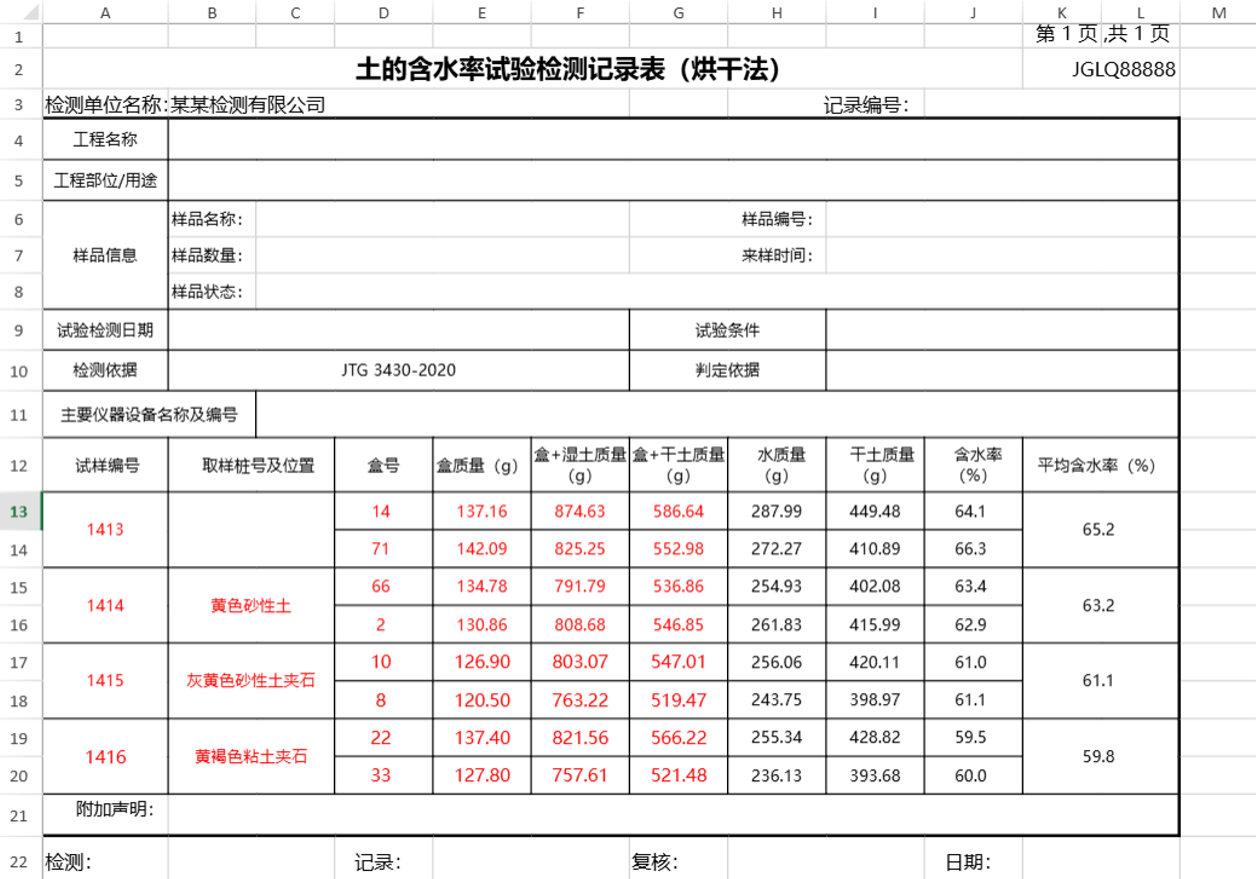
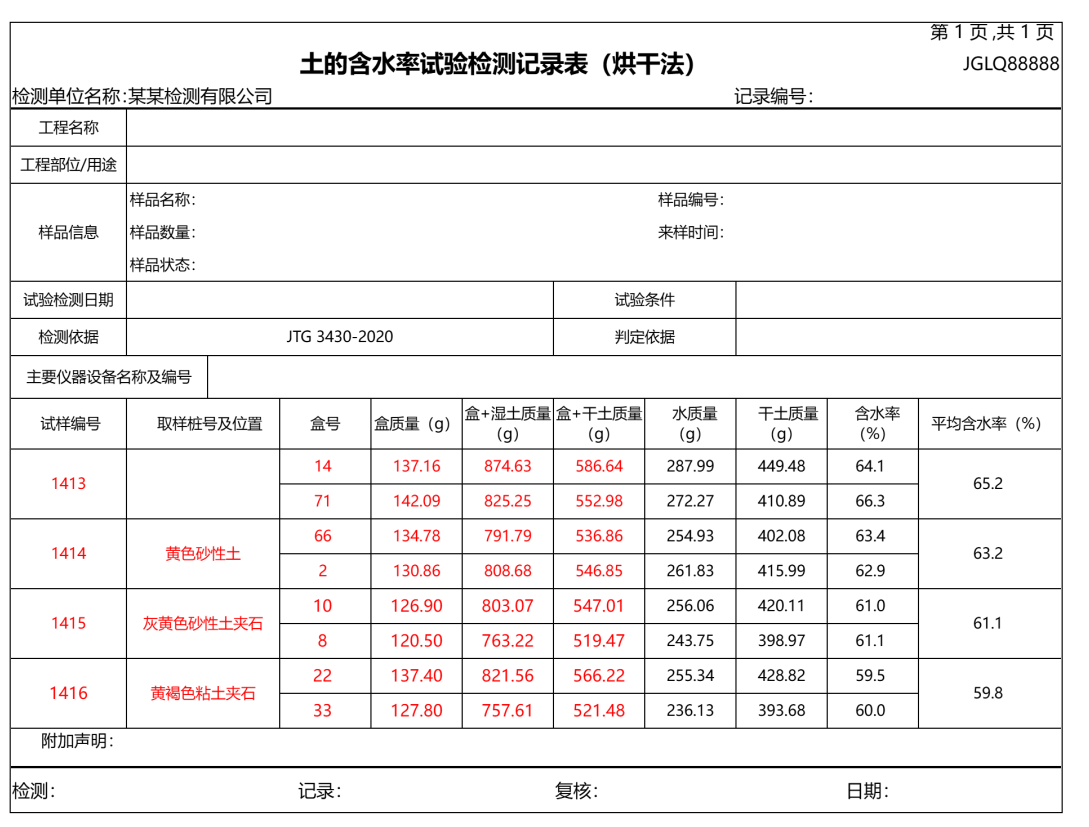
feat: refine new-chat actions and add a fix-formula starter
- Split New chat into a primary button and a menu with New chat, Clear spreadsheet and New chat + clear spreadsheet.
- Keep clear confirmation and snapshot semantics; the combined action resets the workbook and starts a fresh chat while old chats keep their last completed snapshot.
- Add a medium-complexity starter that attaches 销售分析看板.sjs and asks the agent to fix formula errors in the 统计分析 sheet.
- Remove the workbook-structure starter, set the sales starter to simple, and refresh the sample detection image.

diff --git a/components/ChatPanel.tsx b/components/ChatPanel.tsx
@@ -301,6 +301,7 @@ export default function ChatPanel({ chatPanelWidth, onChatPanelWidthChange }: Ch
 	const [historyRefresh, setHistoryRefresh] = useState(0);
 	const [pendingAction, setPendingAction] = useState<{ message: string; action: () => void } | null>(null);
 	const [showClearConfirm, setShowClearConfirm] = useState(false);
+	const [showNewClearConfirm, setShowNewClearConfirm] = useState(false);
 
 	// MCP
 	const {
@@ -980,8 +981,29 @@ export default function ChatPanel({ chatPanelWidth, onChatPanelWidthChange }: Ch
 	}, [session.id, handleStop, switchSession, setMessages, clearError, clearAttachments, t, getLatestSnapshotId, workbook]);
 
 	const handleEmptySend = useCallback((text: string, files?: FileUIPart[]) => {
-		sendMessageWithSnapshotRef.current({ text, files });
-	}, []);
+		const imageFiles: FileUIPart[] = [];
+		const spreadsheetFiles: FileUIPart[] = [];
+		for (const part of files ?? []) {
+			if (part.type === "file" && part.mediaType?.startsWith("image/")) imageFiles.push(part);
+			else spreadsheetFiles.push(part);
+		}
+
+		let finalText = text;
+		for (const part of spreadsheetFiles) {
+			if (!part.filename) continue;
+			const base64 = part.url.split(",")[1];
+			if (!base64) continue;
+			// import_file 通过文件名从 pendingFilesRef 取 base64
+			pendingFilesRef.current.set(part.filename, base64);
+			finalText = `${t("chat.marker.attachment", { name: part.filename })}
+${finalText}`;
+		}
+
+		sendMessageWithSnapshotRef.current({
+			text: finalText,
+			files: imageFiles.length > 0 ? imageFiles : undefined,
+		});
+	}, [t, pendingFilesRef]);
 
 	const handleFork = useCallback(async (messageId: string, withRestore: boolean) => {
 		const doFork = async () => {
@@ -1034,9 +1056,9 @@ export default function ChatPanel({ chatPanelWidth, onChatPanelWidthChange }: Ch
 		setAutoSaveExists(false);
 	}, []);
 
-	/** 清空当前工作簿：重置表格，并同步最新的会话快照与自动保存 */
-	const handleClearWorkbook = useCallback(async () => {
-		if (!workbook || isGeneratingRef.current) return;
+	/** 重置工作簿并同步自动保存；不读写会话快照。返回是否成功。 */
+	const resetWorkbookOnly = useCallback(async (): Promise<boolean> => {
+		if (!workbook || isGeneratingRef.current) return false;
 
 		// 取消尚未落盘的本轮快照，避免它在清空之后又把旧内容写成 latest
 		if (snapshotTimerRef.current) {
@@ -1052,9 +1074,22 @@ export default function ChatPanel({ chatPanelWidth, onChatPanelWidthChange }: Ch
 			resetWorkbook(workbook);
 			refreshSheetInfo();
 		} catch (error) {
-			console.error("[clearWorkbook] 重置工作簿失败", error);
-			return;
+			console.error("[resetWorkbookOnly] 重置工作簿失败", error);
+			return false;
 		}
+
+		if (settings.autoSave) {
+			saveWorkbook(workbook).then(() => setAutoSaveExists(true)).catch(() => {});
+		} else {
+			// 不开自动保存时也删除旧数据，避免以后打开开关又恢复出清空前的表
+			clearWorkbook().then(() => setAutoSaveExists(false)).catch(() => {});
+		}
+		return true;
+	}, [workbook, settings.autoSave, refreshSheetInfo]);
+
+	/** 清空当前工作簿：重置表格，并同步最新的会话快照与自动保存 */
+	const handleClearWorkbook = useCallback(async () => {
+		if (!workbook || !(await resetWorkbookOnly())) return;
 
 		if (messages.length > 0) {
 			const snapshotId = `snap_${session.id}_${Date.now()}`;
@@ -1067,17 +1102,18 @@ export default function ChatPanel({ chatPanelWidth, onChatPanelWidthChange }: Ch
 			}
 		}
 
-		if (settings.autoSave) {
-			saveWorkbook(workbook).then(() => setAutoSaveExists(true)).catch(() => {});
-		} else {
-			// 不开自动保存时也删除旧数据，避免以后打开开关又恢复出清空前的表
-			clearWorkbook().then(() => setAutoSaveExists(false)).catch(() => {});
-		}
-
 		setShowClearConfirm(false);
 		setShowHistory(false);
 		setShowSettings(false);
-	}, [workbook, messages.length, session.id, flushMessages, setLatestSnapshot, settings.autoSave, refreshSheetInfo]);
+	}, [resetWorkbookOnly, messages.length, session.id, workbook, flushMessages, setLatestSnapshot]);
+
+	/** 新建聊天并清空表格：旧会话保留最后一次完成轮次的快照 */
+	const handleNewSessionAndClearWorkbook = useCallback(async () => {
+		if (!workbook || !isReady || isGeneratingRef.current) return;
+		if (!(await resetWorkbookOnly())) return;
+		doNewSession();
+		setShowNewClearConfirm(false);
+	}, [workbook, isReady, resetWorkbookOnly, doNewSession]);
 
 
 	// 导出指定会话
@@ -1174,16 +1210,52 @@ export default function ChatPanel({ chatPanelWidth, onChatPanelWidthChange }: Ch
 						<span className="truncate">{headerStatus.text}</span>
 					</span>
 				</div>
-				{/* 右上角按钮组：新建 | 历史 | 清空表格 | 设置 */}
+				{/* 右上角按钮组：新建 / 清空（合并菜单）| 历史 | 设置 */}
 				<div className="flex items-center gap-1 flex-shrink-0">
-					<button
-						type="button"
-						onClick={handleNewSession}
-						className="inline-flex size-7 items-center justify-center rounded-md text-muted-foreground transition-colors hover:bg-accent hover:text-foreground"
-						title={t("chat.new")}
-					>
-						<PlusIcon className="size-4" />
-					</button>
+					<div className="flex items-center">
+						<button
+							type="button"
+							onClick={handleNewSession}
+							className="inline-flex size-7 items-center justify-center rounded-l-md rounded-r-none text-muted-foreground transition-colors hover:bg-accent hover:text-foreground"
+							title={t("chat.new")}
+						>
+							<PlusIcon className="size-4" />
+						</button>
+						<DropdownMenu>
+							<DropdownMenuTrigger asChild>
+								<button
+									type="button"
+									aria-label={t("chat.newMenu")}
+									title={t("chat.newMenu")}
+									className="inline-flex h-7 w-5 items-center justify-center rounded-l-none rounded-r-md text-muted-foreground transition-colors hover:bg-accent hover:text-foreground"
+								>
+									<ChevronDownIcon className="size-3" />
+								</button>
+							</DropdownMenuTrigger>
+							<DropdownMenuContent align="end" sideOffset={4} className="w-60">
+								<DropdownMenuItem onClick={handleNewSession}>
+									<PlusIcon className="size-4" />
+									<span>{t("chat.new")}</span>
+								</DropdownMenuItem>
+								<DropdownMenuItem
+									onClick={() => setShowClearConfirm(true)}
+									disabled={!isReady || isGenerating}
+									variant="destructive"
+								>
+									<EraserIcon className="size-4" />
+									<span>{t("chat.clearWorkbook")}</span>
+								</DropdownMenuItem>
+								<DropdownMenuItem
+									onClick={() => setShowNewClearConfirm(true)}
+									disabled={!isReady || isGenerating}
+									variant="destructive"
+								>
+									<EraserIcon className="size-4" />
+									<span>{t("chat.newClearWorkbook")}</span>
+								</DropdownMenuItem>
+							</DropdownMenuContent>
+						</DropdownMenu>
+					</div>
 					<button
 						type="button"
 						onClick={() => { setShowHistory((v) => !v); setShowSettings(false); }}
@@ -1193,17 +1265,6 @@ export default function ChatPanel({ chatPanelWidth, onChatPanelWidthChange }: Ch
 						title={t("chat.history")}
 					>
 						<HistoryIcon className="size-4" />
-					</button>
-					<button
-						type="button"
-						onClick={() => { if (!isReady || isGenerating) return; setShowClearConfirm(true); }}
-						aria-disabled={!isReady || isGenerating}
-						className={`inline-flex size-7 items-center justify-center rounded-md text-muted-foreground transition-colors hover:bg-accent hover:text-foreground ${
-							!isReady || isGenerating ? "opacity-40 cursor-not-allowed hover:bg-transparent hover:text-muted-foreground" : ""
-						}`}
-						title={t("chat.clearWorkbook")}
-					>
-						<EraserIcon className="size-4" />
 					</button>
 					<button
 						type="button"
@@ -1556,6 +1617,20 @@ export default function ChatPanel({ chatPanelWidth, onChatPanelWidthChange }: Ch
 					<DialogFooter>
 						<Button variant="outline" onClick={() => setShowClearConfirm(false)}>{t("common.cancel")}</Button>
 						<Button variant="destructive" onClick={() => { void handleClearWorkbook(); }}>{t("chat.clearWorkbook.confirm")}</Button>
+					</DialogFooter>
+				</DialogContent>
+			</Dialog>
+
+			{/* 新建聊天并清空表格确认 */}
+			<Dialog open={showNewClearConfirm} onOpenChange={setShowNewClearConfirm}>
+				<DialogContent showCloseButton={false} className="max-w-sm">
+					<DialogHeader>
+						<DialogTitle>{t("chat.newClearWorkbook.title")}</DialogTitle>
+						<DialogDescription>{t("chat.newClearWorkbook.description")}</DialogDescription>
+					</DialogHeader>
+					<DialogFooter>
+						<Button variant="outline" onClick={() => setShowNewClearConfirm(false)}>{t("common.cancel")}</Button>
+						<Button variant="destructive" onClick={() => { void handleNewSessionAndClearWorkbook(); }}>{t("chat.newClearWorkbook")}</Button>
 					</DialogFooter>
 				</DialogContent>
 			</Dialog>

diff --git a/components/ai-elements/empty-state.tsx b/components/ai-elements/empty-state.tsx
@@ -6,10 +6,10 @@ import {
 	WandSparklesIcon,
 	FileUpIcon,
 	DatabaseIcon,
-	SearchIcon,
 	CalendarDaysIcon,
 	WalletIcon,
 	ImageUpIcon,
+	WrenchIcon,
 	type LucideIcon,
 } from "lucide-react";
 import { useMemo, useState } from "react";
@@ -38,11 +38,13 @@ interface StarterPrompt {
 	level: PromptLevel;
 	/** 随提示词附带的一张示例图片（public 下的路径） */
 	image?: { src: string; filename: string; mediaType: string };
+	/** 随提示词附带的一个示例文件（public 下的路径） */
+	file?: { src: string; filename: string; mediaType: string };
 }
 
-/** 把 public 下的图片读成 AI SDK 的 FileUIPart（data URL） */
-async function loadImagePart(image: NonNullable<StarterPrompt["image"]>): Promise<FileUIPart> {
-	const response = await fetch(image.src);
+/** 把 public 下的示例附件读成 AI SDK 的 FileUIPart（data URL） */
+async function loadFilePart(file: { src: string; filename: string; mediaType: string }): Promise<FileUIPart> {
+	const response = await fetch(file.src);
 	if (!response.ok) throw new Error(`HTTP ${response.status}`);
 	const blob = await response.blob();
 	const url = await new Promise<string>((resolve, reject) => {
@@ -51,12 +53,12 @@ async function loadImagePart(image: NonNullable<StarterPrompt["image"]>): Promis
 		reader.onerror = () => reject(reader.error ?? new Error("读取图片失败"));
 		reader.readAsDataURL(blob);
 	});
-	return { type: "file", mediaType: image.mediaType, filename: image.filename, url };
+	return { type: "file", mediaType: file.mediaType, filename: file.filename, url };
 }
 
 export function EmptyState({ onSend, isReady }: EmptyStateProps) {
 	const { t } = useTranslation();
-	const [loadingImage, setLoadingImage] = useState(false);
+	const [loadingAttachment, setLoadingAttachment] = useState(false);
 	const capabilities = useMemo(
 		() => [
 			{ icon: TableIcon, label: t("empty.capability.data") },
@@ -71,16 +73,21 @@ export function EmptyState({ onSend, isReady }: EmptyStateProps) {
 			// 五条都从零可用：不假设表里已经有数据，空工作簿也能直接跑。
 			// 按档位从轻到重排列，右端标出档位供用户挑任务时参考。
 			{
-				icon: SearchIcon,
-				label: t("empty.prompt.structure"),
-				prompt: t("empty.prompt.structure.full"),
-				level: "simple",
-			},
-			{
 				icon: DatabaseIcon,
 				label: t("empty.prompt.sample"),
 				prompt: t("empty.prompt.sample.full"),
+				level: "simple",
+			},
+			{
+				icon: WrenchIcon,
+				label: t("empty.prompt.fixFormula"),
+				prompt: t("empty.prompt.fixFormula.full"),
 				level: "medium",
+				file: {
+					src: "/starter/销售分析看板.sjs",
+					filename: "销售分析看板.sjs",
+					mediaType: "application/octet-stream",
+				},
 			},
 			{
 				icon: CalendarDaysIcon,
@@ -110,18 +117,19 @@ export function EmptyState({ onSend, isReady }: EmptyStateProps) {
 	);
 
 	const sendStarter = async (item: StarterPrompt) => {
-		if (!item.image) {
+		const attachment = item.image ?? item.file;
+		if (!attachment) {
 			onSend(item.prompt);
 			return;
 		}
-		if (loadingImage) return;
-		setLoadingImage(true);
+		if (loadingAttachment) return;
+		setLoadingAttachment(true);
 		try {
-			onSend(item.prompt, [await loadImagePart(item.image)]);
+			onSend(item.prompt, [await loadFilePart(attachment)]);
 		} catch (error) {
-			console.error("[empty-state] 示例图片加载失败", error);
+			console.error("[empty-state] 示例附件加载失败", error);
 		} finally {
-			setLoadingImage(false);
+			setLoadingAttachment(false);
 		}
 	};
 
@@ -152,8 +160,9 @@ export function EmptyState({ onSend, isReady }: EmptyStateProps) {
 			<div className="flex w-full flex-col gap-2">
 				{starterPrompts.map((item) => {
 					const { icon: Icon, label, level } = item;
-					// 带图的那条要先 fetch 图片，加载期间禁用它，避免连点
-					const loading = !!item.image && loadingImage;
+					const attachment = item.image ?? item.file;
+					// 带附件的那条要先 fetch 文件，加载期间禁用它，避免连点
+					const loading = !!attachment && loadingAttachment;
 					return (
 						<button
 							key={label}

diff --git a/lib/i18n/locales/zh-CN.ts b/lib/i18n/locales/zh-CN.ts
@@ -47,6 +47,10 @@ export const zhCNMessages: Record<TranslationKey, string> = {
 	"chat.clearWorkbook.title": "清空当前表格？",
 	"chat.clearWorkbook.description": "将删除当前工作簿的全部内容、格式、图表和工作表，恢复为一张空白 Sheet1。聊天记录和工作簿快照不会被删除。",
 	"chat.clearWorkbook.confirm": "清空表格",
+	"chat.newMenu": "新建或清空",
+	"chat.newClearWorkbook": "新建聊天并清空表格",
+	"chat.newClearWorkbook.title": "新建聊天并清空表格？",
+	"chat.newClearWorkbook.description": "将开始一个新聊天，并将当前工作簿重置为一张空白 Sheet1。当前聊天会保留在历史中，并保留最后一次完成轮次时的快照。",
 	"chat.interrupt.title": "中断当前回复",
 	"chat.duplicateSession": "复制会话到这条消息",
 	"chat.duplicateSessionRestore": "复制会话并恢复 SpreadJS",
@@ -138,12 +142,12 @@ export const zhCNMessages: Record<TranslationKey, string> = {
 	"empty.prompt.budget.full": "帮我做一个部门年度预算表，一个工作簿里分“预算录入”和“汇总看板”两个 sheet。预算录入包含部门、科目、月份、预算金额、实际金额、差异额、差异率，差异额和差异率用公式计算；汇总看板按部门汇总预算、实际和差异，差异率超过 10% 的行标红。示例数据给 3 个部门、每个部门 3 个科目、12 个月即可，字段和公式要能直接使用。",
 	"empty.prompt.image": "还原图片表格",
 	"empty.prompt.image.full": "帮我还原这个表格",
+	"empty.prompt.fixFormula": "修复公式错误",
+	"empty.prompt.fixFormula.full": "导入这个文件，并修复“统计分析”工作表中的公式错误。",
 	"empty.prompt.sample": "生成销售数据",
 	"empty.prompt.sample.full": "在当前工作表中生成一份示例销售数据，并简单设置一些格式。",
 	"empty.prompt.schedule": "搭建排期表",
 	"empty.prompt.schedule.full": "帮我新建一个项目排期表，用来管一个 3 个月、20 个任务的项目。表里要有任务名称、负责人、开始日期、结束日期、工期天数、前置任务、进度百分比、状态、风险等级、备注。工期要能根据开始和结束日期自动算，状态根据进度自动判断，延期任务标红。",
-	"empty.prompt.structure": "查看工作簿结构",
-	"empty.prompt.structure.full": "告诉我当前工作簿有几个 sheet，每个 sheet 有多少行多少列、字段名分别是什么。",
 	"empty.subtitle": "用自然语言操作电子表格",
 	"empty.title": "SpreadJS AI 助手",
 	"errorBoundary.failed": "{label} 出错了",

diff --git a/lib/i18n/locales/en.ts b/lib/i18n/locales/en.ts
@@ -45,6 +45,10 @@ export const enMessages = {
 	"chat.clearWorkbook.title": "Clear the current spreadsheet?",
 	"chat.clearWorkbook.description": "This deletes all content, formatting, charts and sheets in the current workbook and restores a blank Sheet1. Chat history and snapshots are kept.",
 	"chat.clearWorkbook.confirm": "Clear spreadsheet",
+	"chat.newMenu": "New or clear",
+	"chat.newClearWorkbook": "New chat and clear spreadsheet",
+	"chat.newClearWorkbook.title": "Start a new chat and clear the spreadsheet?",
+	"chat.newClearWorkbook.description": "This starts a new chat and resets the current workbook to a blank Sheet1. The current chat stays in history with its last completed snapshot.",
 	"chat.interrupt.title": "Interrupt current reply",
 	"chat.duplicateSession": "Duplicate session to this message",
 	"chat.duplicateSessionRestore": "Duplicate session and restore SpreadJS",
@@ -136,12 +140,12 @@ export const enMessages = {
 	"empty.prompt.budget.full": "Build a departmental annual budget with two sheets: budget entry and summary. Budget entry includes department, account, month, budget amount, actual amount, variance, and variance rate, with formulas for variance and variance rate. The summary sheet aggregates budget, actual, and variance by department, and highlights rows whose variance rate exceeds 10% in red. Use sample data for 3 departments × 3 accounts × 12 months; the fields and formulas should be ready to use.",
 	"empty.prompt.image": "Restore table",
 	"empty.prompt.image.full": "Please restore this table.",
+	"empty.prompt.fixFormula": "Fix formula errors",
+	"empty.prompt.fixFormula.full": "Import this file and fix the formula errors in the “统计分析” sheet.",
 	"empty.prompt.sample": "Generate sales data",
 	"empty.prompt.sample.full": "Generate a sample sales dataset in the current worksheet. Apply some light style.",
 	"empty.prompt.schedule": "Build a schedule",
 	"empty.prompt.schedule.full": "Create a project schedule for a 3-month project with 20 tasks. Include task name, owner, start date, end date, duration, predecessor, progress percentage, status, risk level, and notes. Derive duration from the start and end dates and status from progress, and highlight overdue tasks in red.",
-	"empty.prompt.structure": "Inspect the workbook",
-	"empty.prompt.structure.full": "Tell me how many sheets the current workbook has, and for each sheet how many rows and columns it has and what the column headers are.",
 	"empty.subtitle": "Control spreadsheets with natural language",
 	"empty.title": "SpreadJS AI Assistant",
 	"errorBoundary.failed": "{label} failed",
